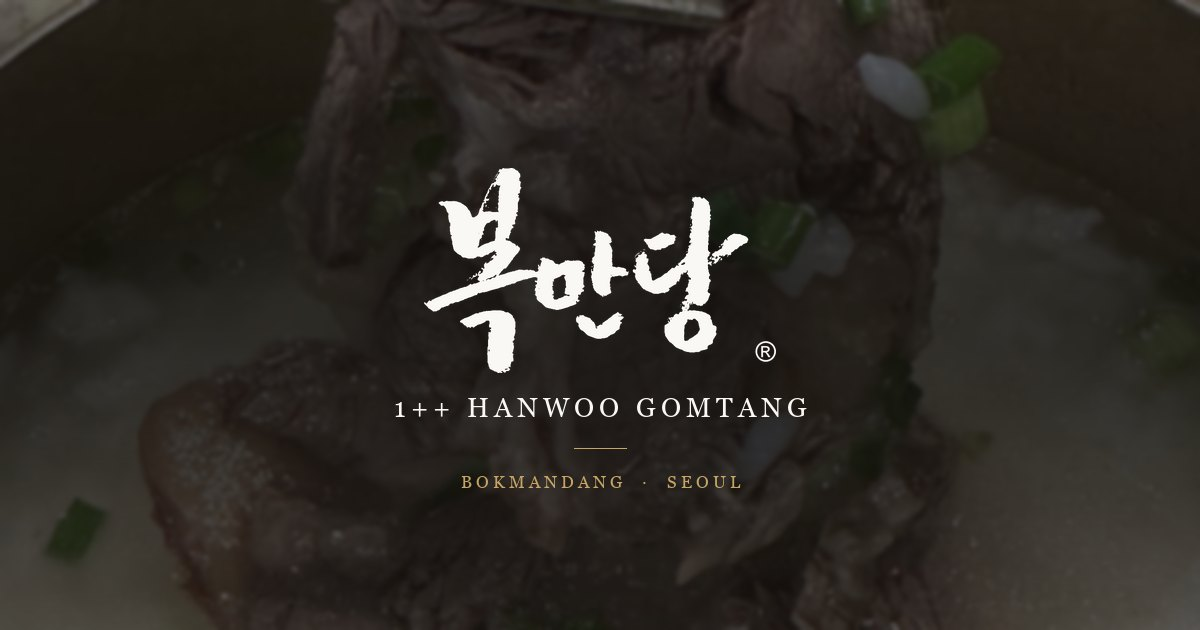
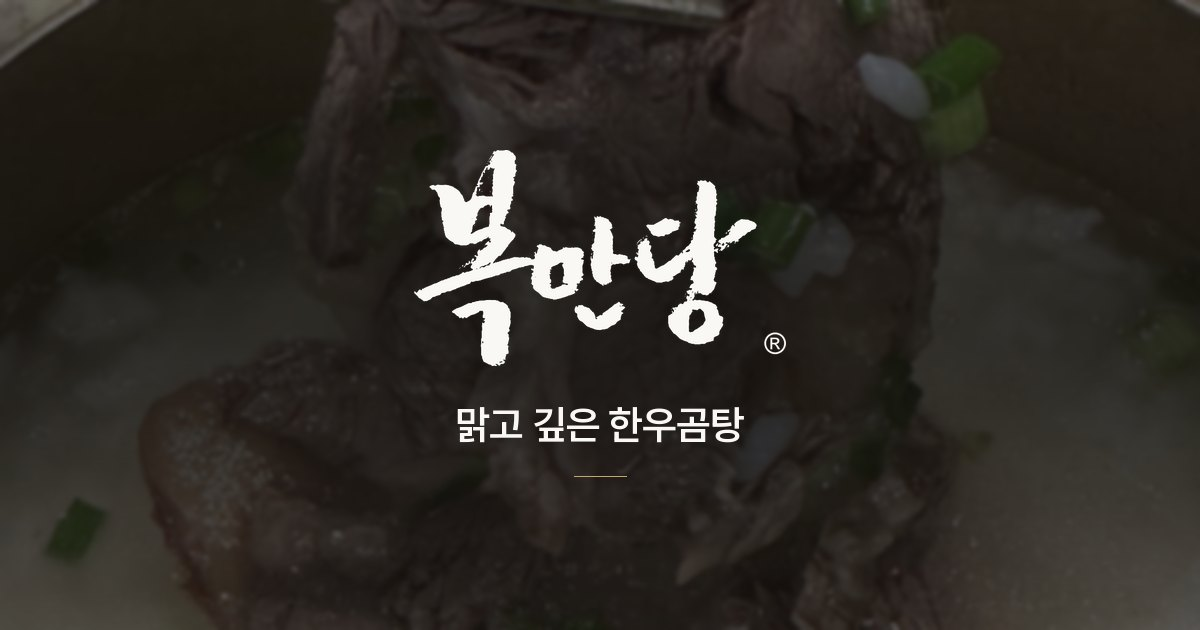
등급 표기(1++) 전면 삭제 + 오픈 전 색인 차단
■ 1++ 삭제 (발주처 확인 — 사실 아님)
축산물 등급은 「축산물 등급판정에 관한 규정」상 표시 사항이라, 근거 없이
광고 문구로 두면 표시·광고 법령 위반 소지가 있어 전 구간에서 제거했습니다.
- index.html 20곳 · privacy.html · README · CONTENT(삭제 경위 기록)
- 헤더 로고 옆 1++ 배지 제거
- 히어로 지표 타일 "1++ / 암소 한우만 사용" 제거 → 2개 (그리드 auto-fit 전환)
- OG 이미지 재생성 — 카피를 "맑고 깊은 한우곰탕"(Pretendard)으로 교체
문장 구조는 건드리지 않고 등급 토큰만 걷어냈습니다. 대체 문구를 임의로
지어내지 않았습니다.

■ 색인 차단
시안 표기와 임시값이 남은 상태로 검색에 잡히면 곤란해 noindex 적용.
- tools/set-indexing.py block|allow — robots.txt 와 meta 를 함께 토글합니다.
  둘 중 하나만 바꾸면 색인이 새므로 반드시 이 스크립트로 전환하세요.

■ 도구
- tools/make-kr-font.py — OG 이미지용 Pretendard 정적 TTF 추출
  (PIL 이 woff2 를 못 읽어 필요. 사이트 동작과는 무관)

diff --git a/index.html b/index.html
@@ -3,26 +3,27 @@
 <head>
 <meta charset="UTF-8">
 <meta name="viewport" content="width=device-width, initial-scale=1.0">
-<title>복만당 · 1++ 한우곰탕 | 브랜드 · 메뉴 · 매장 · 가맹점 모집</title>
-<meta name="description" content="1++ 암소 한우만을 약탕기에 14시간 저온으로 우려낸 맑고 깊은 곰탕. 복만당 브랜드 이야기와 메뉴, 서울·경기 매장 안내, 가맹점 창업 상담을 안내합니다.">
+<title>복만당 · 한우곰탕 | 브랜드 · 메뉴 · 매장 · 가맹점 모집</title>
+<meta name="description" content="암소 한우만을 약탕기에 14시간 저온으로 우려낸 맑고 깊은 곰탕. 복만당 브랜드 이야기와 메뉴, 서울·경기 매장 안내, 가맹점 창업 상담을 안내합니다.">
 
 <!-- ⚠ 배포 도메인 미확정 — bokmandang.example.com 은 임시 placeholder 입니다.
      도메인이 정해지면 아래 한 줄로 index.html · sitemap.xml · robots.txt 를 한꺼번에 바꾸세요.
        python tools/set-site-url.py https://실제도메인
      치환 전까지 og:image · canonical · sitemap 은 정상 동작하지 않습니다. -->
 <link rel="canonical" href="https://bokmandang.example.com/">
-<meta name="robots" content="index,follow,max-image-preview:large">
+<!-- 오픈 전 색인 차단 — tools/set-indexing.py allow 로 해제 -->
+<meta name="robots" content="noindex,nofollow">
 
 <meta property="og:type" content="website">
 <meta property="og:site_name" content="복만당">
 <meta property="og:locale" content="ko_KR">
 <meta property="og:url" content="https://bokmandang.example.com/">
-<meta property="og:title" content="복만당 · 1++ 한우곰탕">
-<meta property="og:description" content="1++ 암소 한우만을 약탕기에 14시간 저온으로 우려낸 맑고 깊은 곰탕. 브랜드 · 메뉴 · 매장 · 가맹점 모집 안내.">
+<meta property="og:title" content="복만당 · 한우곰탕">
+<meta property="og:description" content="암소 한우만을 약탕기에 14시간 저온으로 우려낸 맑고 깊은 곰탕. 브랜드 · 메뉴 · 매장 · 가맹점 모집 안내.">
 <meta property="og:image" content="https://bokmandang.example.com/assets/img/og-cover.jpg">
 <meta property="og:image:width" content="1200">
 <meta property="og:image:height" content="630">
-<meta property="og:image:alt" content="복만당 1++ 한우곰탕">
+<meta property="og:image:alt" content="복만당 한우곰탕">
 <meta name="twitter:card" content="summary_large_image">
 
 <link rel="icon" type="image/png" sizes="64x64" href="assets/img/favicon-64.png">
@@ -31,7 +32,7 @@
 <link rel="stylesheet" as="style" crossorigin href="https://cdn.jsdelivr.net/gh/orioncactus/pretendard@v1.3.9/dist/web/variable/pretendardvariable-dynamic-subset.min.css">
 <link rel="preconnect" href="https://fonts.googleapis.com"><link rel="preconnect" href="https://fonts.gstatic.com" crossorigin>
 <link href="https://fonts.googleapis.com/css2?family=Cormorant:wght@300;400;500;600&display=swap" rel="stylesheet">
-<link rel="stylesheet" href="assets/css/style.css?v=20260830c">
+<link rel="stylesheet" href="assets/css/style.css?v=20260830d">
 <!-- LCP — 히어로 사진. AVIF 미지원 브라우저는 이 preload 를 건너뜁니다. -->
 <link rel="preload" as="image" href="assets/img/hero-gomtang.avif" type="image/avif" fetchpriority="high">
 
@@ -44,7 +45,7 @@
   "@id": "https://bokmandang.example.com/#restaurant",
   "name": "복만당",
   "alternateName": "BOKMANDANG",
-  "description": "1++ 암소 한우만을 약탕기에 저온으로 우려낸 맑은 한우곰탕 전문점.",
+  "description": "암소 한우만을 약탕기에 저온으로 우려낸 맑은 한우곰탕 전문점.",
   "url": "https://bokmandang.example.com/",
   "image": "https://bokmandang.example.com/assets/img/og-cover.jpg",
   "logo": "https://bokmandang.example.com/assets/img/logo-black.png",
@@ -156,7 +157,7 @@
 
 <header id="hd">
   <div class="wrap">
-    <a href="#top" class="brand" aria-label="복만당 홈"><img src="assets/img/logo-black.png" alt="복만당"><span>1++</span></a>
+    <a href="#top" class="brand" aria-label="복만당 홈"><img src="assets/img/logo-black.png" alt="복만당"></a>
     <nav aria-label="주 메뉴"><ul>
       <li><a href="#brand">브랜드</a></li>
       <li><a href="#menu">메뉴</a></li>
@@ -182,8 +183,8 @@
     <div class="rv">
       <p class="lbl lbl-g">SINCE 2024 — 서울 · 경기 7개 매장</p>
       <h1 class="d1">맑은 국물에<br>깊은 맛을 담다</h1>
-      <p class="hero-lock"><em>복만당</em> 1++ 한우곰탕</p>
-      <p class="body">1++ 한우를 정성껏 우려, 맑고 깊은 맛을 담았습니다. 따뜻한 마음과 정성으로 완성한 곰탕에 복만당의 또 하나의 시그니처, 이북식 손만두를 곁들이면 담백하고 깊은 맛을 한층 더 풍성하게 즐기실 수 있습니다.</p>
+      <p class="hero-lock"><em>복만당</em> 한우곰탕</p>
+      <p class="body">한우를 정성껏 우려, 맑고 깊은 맛을 담았습니다. 따뜻한 마음과 정성으로 완성한 곰탕에 복만당의 또 하나의 시그니처, 이북식 손만두를 곁들이면 담백하고 깊은 맛을 한층 더 풍성하게 즐기실 수 있습니다.</p>
       <div class="hero-cta">
         <a href="#franchise" class="btn btn-dark">가맹점 창업 안내
           <svg viewBox="0 0 16 16" aria-hidden="true"><path d="M2 8h12M9 3l5 5-5 5" stroke="currentColor" stroke-width="1.3" fill="none"/></svg></a>
@@ -203,7 +204,6 @@
   </div>
   <div class="scroll-ind" aria-hidden="true" lang="en"><span class="ln"></span>SCROLL</div>
   <div class="stats"><div class="stats-in">
-    <div><b>1++</b><span>암소 한우만 사용</span></div>
     <div><b>14시간</b><span>약탕기 저온 추출</span></div>
     <div><b>100%</b><span>국내산 원재료</span></div>
   </div></div>
@@ -212,8 +212,8 @@
 
 <div class="marquee" aria-hidden="true">
   <div class="marquee-track" id="mq">
-    <span>1++ 한우<i></i>약탕기 14시간 저온 추출<i></i>이북식 손만두<i></i>국내산 100%<i></i>오픈키친 조리<i></i>맑은 곰탕<i></i></span>
-    <span>1++ 한우<i></i>약탕기 14시간 저온 추출<i></i>이북식 손만두<i></i>국내산 100%<i></i>오픈키친 조리<i></i>맑은 곰탕<i></i></span>
+    <span>한우<i></i>약탕기 14시간 저온 추출<i></i>이북식 손만두<i></i>국내산 100%<i></i>오픈키친 조리<i></i>맑은 곰탕<i></i></span>
+    <span>한우<i></i>약탕기 14시간 저온 추출<i></i>이북식 손만두<i></i>국내산 100%<i></i>오픈키친 조리<i></i>맑은 곰탕<i></i></span>
   </div>
 </div>
 
@@ -223,12 +223,12 @@
     <div>
       <div class="head rv">
         <h2 class="d2">좋은 재료로 만든<br>곰탕의 깊이는 다릅니다</h2>
-        <p class="body">1++ 한우와 엄선한 식재료로 완성한 맑고 깊은 한 그릇. 좋은 재료에서 시작해 누구나 쉽게 만들고, 효율적으로 운영할 수 있도록 설계했습니다.</p>
+        <p class="body">한우와 엄선한 식재료로 완성한 맑고 깊은 한 그릇. 좋은 재료에서 시작해 누구나 쉽게 만들고, 효율적으로 운영할 수 있도록 설계했습니다.</p>
         <p class="principle"><span class="lbl lbl-g">복만당의 3가지 원칙</span>재료는 제대로, 조리는 간편하게, 운영은 효율적으로.</p>
       </div>
       <div class="promise-grid">
         <div class="pcard rv"><span class="k">01 — 재료</span><h3>좋은 재료가 만드는<br>확실한 경쟁력</h3>
-          <p>1++ 한우를 중심으로 엄선한 식재료를 사용해 맑고 깊은 한우곰탕이라는 분명한 브랜드 경쟁력을 갖췄습니다.</p></div>
+          <p>한우를 중심으로 엄선한 식재료를 사용해 맑고 깊은 한우곰탕이라는 분명한 브랜드 경쟁력을 갖췄습니다.</p></div>
         <div class="pcard rv"><span class="k">02 — 조리</span><h3>조리 경력 없이도<br>가능한 간편한 운영</h3>
           <p>약탕기에서 저온으로 14시간, 맑고 깊게 우려낸 한우곰탕. 복잡한 불 조절이나 조리 중 지속적인 관리 부담을 줄인 시스템으로, 매일 한결같은 복만당의 맛을 구현합니다.</p></div>
         <div class="pcard rv"><span class="k">03 — 운영</span><h3>작은 매장에서도<br>가능한 효율적인 창업</h3>
@@ -251,7 +251,7 @@
   </picture>
   <div class="wrap rv">
     <div class="bar"></div>
-    <h2><q>좋은 한우, 어려운 조리는 필요 없습니다.<br>1++ 한우를 정성껏 우려낸 맑고 깊은 곰탕,<br>복만당의 맛과 깊이를 그대로 담았습니다.</q></h2>
+    <h2><q>좋은 한우, 어려운 조리는 필요 없습니다.<br>한우를 정성껏 우려낸 맑고 깊은 곰탕,<br>복만당의 맛과 깊이를 그대로 담았습니다.</q></h2>
     <p class="sig" lang="en">BOKMANDANG KITCHEN</p>
   </div>
 </section>
@@ -274,7 +274,7 @@
       <p class="swipe-hint" id="swipe" aria-hidden="true" style="display:none">옆으로 밀어 보기
         <svg viewBox="0 0 16 16"><path d="M2 8h11M9 4l4 4-4 4"/></svg></p>
       <div class="menu-grid" id="mgrid"></div>
-      <p class="origin rv"><strong>1++ 한우만 사용합니다.</strong><br>
+      <p class="origin rv"><strong>한우만 사용합니다.</strong><br>
         원산지 — 소고기(국내산), 쌀(국내산), 돼지고기(국내산), 무(국내산), 고춧가루(국내산·중국산)</p>
     </div>
   </div>
@@ -286,11 +286,11 @@
     <div class="rail rv"><span class="idx">03</span><span class="lbl" lang="en">Retail</span><span class="bar"></span></div>
     <div>
       <div class="head rv"><h2 class="d2" style="color:#FAF8F4">맑은 한우 곰탕,<br>집에서도 그대로</h2>
-        <p class="body">1++ 한우를 정성껏 우려낸 맑고 깊은 곰탕을 그 맛 그대로 정성스럽게 담았습니다. 간편하게 데우기만 하면 완성되는 복만당 한우곰탕 밀키트, 언제 어디서나 따뜻하고 든든한 한 끼를 즐겨보세요.</p></div>
+        <p class="body">한우를 정성껏 우려낸 맑고 깊은 곰탕을 그 맛 그대로 정성스럽게 담았습니다. 간편하게 데우기만 하면 완성되는 복만당 한우곰탕 밀키트, 언제 어디서나 따뜻하고 든든한 한 끼를 즐겨보세요.</p></div>
       <div class="kit-in">
         <div class="rv">
           <ul>
-            <li>1++ 한우를 약탕기에 우려낸 맑고 깊은 맛</li>
+            <li>한우를 약탕기에 우려낸 맑고 깊은 맛</li>
             <li>600g · 162kcal · 냉동 보관 (−18℃ 이하)</li>
             <li>소고기육수 88%, 소고기(국내산) 12%</li>
             <li>가맹점 부수입 · 온라인 판매 채널 동시 운영</li>
@@ -389,7 +389,7 @@
 
       <div class="support">
         <div class="scard rv"><div class="ic"><svg viewBox="0 0 24 24" aria-hidden="true"><path d="M4 9h16M6 9V6a2 2 0 0 1 2-2h8a2 2 0 0 1 2 2v3M5 9l1.2 9.2A2 2 0 0 0 8.2 20h7.6a2 2 0 0 0 2-1.8L19 9"/></svg></div>
-          <h3>약탕기 조리 시스템</h3><p>약탕기로 1++ 한우를 오래 우려내어 맑고 진한 곰탕을 조리합니다.</p></div>
+          <h3>약탕기 조리 시스템</h3><p>약탕기로 한우를 오래 우려내어 맑고 진한 곰탕을 조리합니다.</p></div>
         <div class="scard rv"><div class="ic"><svg viewBox="0 0 24 24" aria-hidden="true"><circle cx="9" cy="8" r="3"/><circle cx="17" cy="9.5" r="2.2"/><path d="M3 19c0-3.3 2.7-5 6-5s6 1.7 6 5M16.5 14.2c2.6.3 4.5 1.9 4.5 4.8"/></svg></div>
           <h3>주방 인력 최소화</h3><p>표준 레시피와 계량 도구를 제공해 2인 운영이 가능한 소형 매장 구조를 설계합니다.</p></div>
         <div class="scard rv"><div class="ic"><svg viewBox="0 0 24 24" aria-hidden="true"><path d="M3 20V9.5L12 4l9 5.5V20M3 20h18M9 20v-6h6v6"/></svg></div>
@@ -470,7 +470,7 @@
   <div class="wrap">
     <div class="top-row">
       <div><img src="assets/img/logo-white.png" alt="복만당">
-        <p>복만당 <span class="num">1++</span> 맑은 한우곰탕<br>서울시 강남구 언주로 <span class="num">563</span> 원에디션강남 <span class="num">401</span>동 <span class="num">116</span>호<br><span class="num">02-565-5288</span></p></div>
+        <p>복만당 맑은 한우곰탕<br>서울시 강남구 언주로 <span class="num">563</span> 원에디션강남 <span class="num">401</span>동 <span class="num">116</span>호<br><span class="num">02-565-5288</span></p></div>
       <div class="fnav">
         <a href="#brand">브랜드</a><a href="#menu">메뉴</a><a href="#store">매장안내</a><a href="#franchise">창업안내</a><a href="#contact">가맹문의</a>
         <a href="privacy.html" class="pp">개인정보처리방침</a>
@@ -499,8 +499,8 @@
   <svg viewBox="0 0 16 16" width="15" height="15" aria-hidden="true"><path d="M8 14V2M3 7l5-5 5 5" stroke="currentColor" stroke-width="1.3" fill="none"/></svg>
 </button>
 
-<script src="assets/js/config.js?v=20260830c"></script>
-<script src="assets/data/stores.js?v=20260830c"></script>
-<script src="assets/js/main.js?v=20260830c"></script>
+<script src="assets/js/config.js?v=20260830d"></script>
+<script src="assets/data/stores.js?v=20260830d"></script>
+<script src="assets/js/main.js?v=20260830d"></script>
 </body>
 </html>

diff --git a/privacy.html b/privacy.html
@@ -23,7 +23,8 @@
 <meta name="viewport" content="width=device-width, initial-scale=1.0">
 <title>개인정보처리방침 | 복만당</title>
 <meta name="description" content="복만당 가맹 상담 신청 시 수집하는 개인정보의 항목, 이용 목적, 보유 기간과 정보주체의 권리를 안내합니다.">
-<meta name="robots" content="index,follow">
+<!-- 오픈 전 색인 차단 — tools/set-indexing.py allow 로 해제 -->
+<meta name="robots" content="noindex,nofollow">
 <link rel="canonical" href="https://bokmandang.example.com/privacy.html">
 <link rel="icon" type="image/png" sizes="64x64" href="assets/img/favicon-64.png">
 <link rel="apple-touch-icon" sizes="180x180" href="assets/img/apple-touch-icon.png">
@@ -31,7 +32,7 @@
 <link rel="stylesheet" as="style" crossorigin href="https://cdn.jsdelivr.net/gh/orioncactus/pretendard@v1.3.9/dist/web/variable/pretendardvariable-dynamic-subset.min.css">
 <link rel="preconnect" href="https://fonts.googleapis.com"><link rel="preconnect" href="https://fonts.gstatic.com" crossorigin>
 <link href="https://fonts.googleapis.com/css2?family=Cormorant:wght@300;400;500;600&display=swap" rel="stylesheet">
-<link rel="stylesheet" href="assets/css/style.css?v=20260830c">
+<link rel="stylesheet" href="assets/css/style.css?v=20260830d">
 </head>
 <body>
 <a class="sr" href="#doc">본문 바로가기</a>
@@ -187,7 +188,7 @@
   <div class="wrap">
     <div class="top-row">
       <div><img src="assets/img/logo-white.png" alt="복만당">
-        <p>복만당 <span class="num">1++</span> 맑은 한우곰탕<br>서울시 강남구 언주로 <span class="num">563</span> 원에디션강남 <span class="num">401</span>동 <span class="num">116</span>호<br><span class="num">02-565-5288</span></p></div>
+        <p>복만당 맑은 한우곰탕<br>서울시 강남구 언주로 <span class="num">563</span> 원에디션강남 <span class="num">401</span>동 <span class="num">116</span>호<br><span class="num">02-565-5288</span></p></div>
       <div class="fnav">
         <a href="index.html#brand">브랜드</a><a href="index.html#menu">메뉴</a><a href="index.html#store">매장안내</a><a href="index.html#franchise">창업안내</a><a href="index.html#contact">가맹문의</a>
       </div>

diff --git a/assets/css/style.css b/assets/css/style.css
@@ -136,7 +136,7 @@ body.nav-open .drawer{opacity:1;visibility:visible}
 .price-card i{font-style:normal;font-size:13px;color:var(--mute)}
 .price-card i .num{font-size:15px}
 .stats{border-top:1px solid var(--line);margin-top:clamp(56px,7vw,96px)}
-.stats-in{display:grid;grid-template-columns:repeat(3,1fr);max-width:var(--maxw);margin:0 auto;padding:0 var(--pad)}
+.stats-in{display:grid;grid-template-columns:repeat(auto-fit,minmax(200px,1fr));max-width:var(--maxw);margin:0 auto;padding:0 var(--pad)}
 .stats div{padding:clamp(26px,3vw,42px) 0;border-right:1px solid var(--line)}
 .stats div:last-child{border-right:0}
 .stats div:not(:first-child){padding-left:clamp(20px,3vw,44px)}

diff --git a/tools/set-indexing.py b/tools/set-indexing.py
@@ -1,0 +1,50 @@
+#!/usr/bin/env python3
+"""복만당 — 검색엔진 색인 차단 / 허용 토글
+
+  python tools/set-indexing.py block   # 차단 (오픈 전 기본값)
+  python tools/set-indexing.py allow   # 허용 (정식 오픈 시)
+
+robots.txt 와 각 HTML 의 <meta name="robots"> 를 함께 바꿉니다.
+둘 중 하나만 바꾸면 색인이 새어 나가므로 반드시 이 스크립트로 토글하세요.
+"""
+import sys, io, os, re
+try: sys.stdout.reconfigure(encoding='utf-8')
+except Exception: pass
+
+ROOT  = os.path.join(os.path.dirname(__file__), '..')
+PAGES = {'index.html': 'index,follow,max-image-preview:large',
+         'privacy.html': 'index,follow'}
+BLOCK = 'noindex,nofollow'
+MARK  = '<!-- 오픈 전 색인 차단 — tools/set-indexing.py allow 로 해제 -->'
+
+mode = (sys.argv[1] if len(sys.argv) > 1 else '').lower()
+if mode not in ('block', 'allow'):
+    print(__doc__); sys.exit(1)
+
+for page, live in PAGES.items():
+    p = os.path.join(ROOT, page)
+    s = io.open(p, encoding='utf-8').read()
+    want = BLOCK if mode == 'block' else live
+    new, n = re.subn(r'<meta name="robots" content="[^"]*">',
+                     f'<meta name="robots" content="{want}">', s)
+    assert n == 1, f'{page}: <meta name="robots"> 를 찾지 못했습니다'
+    new = new.replace(MARK + '\n', '')
+    if mode == 'block':
+        new = new.replace(f'<meta name="robots" content="{want}">',
+                          MARK + f'\n<meta name="robots" content="{want}">', 1)
+    io.open(p, 'w', encoding='utf-8').write(new)
+    print(f'  {page:14} robots meta → {want}')
+
+p = os.path.join(ROOT, 'robots.txt')
+s = io.open(p, encoding='utf-8').read()
+s = re.sub(r'(?m)^(Allow|Disallow): /$',
+           'Disallow: /' if mode == 'block' else 'Allow: /', s)
+head = ('# ⚠ 오픈 전 색인 차단 상태입니다. 정식 오픈 시:\n'
+        '#    python tools/set-indexing.py allow\n'
+        if mode == 'block' else '')
+s = re.sub(r'(?s)^#.*?\n\n', '', s, count=1)   # 기존 안내 주석 제거
+s = ('# 복만당 — robots.txt\n' + head +
+     '# Sitemap 주소는 배포 도메인 확정 후: python tools/set-site-url.py https://도메인\n\n' + s)
+io.open(p, 'w', encoding='utf-8').write(s)
+print(f'  robots.txt     → {"Disallow" if mode=="block" else "Allow"}: /')
+print(f'\n색인 {"차단" if mode=="block" else "허용"} 적용 완료. 배포해야 반영됩니다.')

diff --git a/tools/make-og-image.py b/tools/make-og-image.py
@@ -35,16 +35,19 @@ for y in range(H):
 bg = Image.composite(Image.new('RGB', (W, H), (16, 15, 12)), bg,
                      grad.resize((W, H)))
 
-# 워드마크
-# 정식 로고(® 포함)를 씁니다 — tools/make-logo-r.py 로 생성
+# 워드마크 — 정식 로고(® 포함). tools/make-logo-r.py 로 생성
 logo = Image.open(os.path.join(IMG, 'logo-white-r.png')).convert('RGBA')
-lw = 352
+lw = 372
 logo = logo.resize((lw, round(logo.height * lw / logo.width)), Image.LANCZOS)
-bg.paste(logo, ((W - lw) // 2, 168), logo)
+bg.paste(logo, ((W - lw) // 2, 150), logo)
 
 d = ImageDraw.Draw(bg)
-serif  = ImageFont.truetype('C:/Windows/Fonts/georgia.ttf', 27)
-serif_s= ImageFont.truetype('C:/Windows/Fonts/georgia.ttf', 17)
+# 카피는 사이트와 같은 Pretendard 를 씁니다.
+# 없으면 tools/README 참고 — 가변 폰트를 정적 TTF 로 뽑아 두어야 합니다.
+KR = os.path.join(os.path.dirname(__file__), '..', 'build', 'Pretendard-600.ttf')
+if not os.path.exists(KR):
+    raise SystemExit(HELP)
+kr = ImageFont.truetype(KR, 40)
 
 def center(text, y, font, fill, track=0):
     w = sum(d.textlength(c, font=font) + track for c in text) - track
@@ -53,9 +56,9 @@ def center(text, y, font, fill, track=0):
         d.text((x, y), c, font=font, fill=fill)
         x += d.textlength(c, font=font) + track
 
-center('1++ HANWOO GOMTANG', 392, serif, (250, 248, 244), track=5)
-d.line([(W / 2 - 26, 448), (W / 2 + 26, 448)], fill=GOLD, width=1)
-center('BOKMANDANG  ·  SEOUL', 472, serif_s, GOLD, track=4)
+# 한글은 자간을 살짝 조입니다 (DESIGN.md 타이포 규칙)
+center('맑고 깊은 한우곰탕', 400, kr, (250, 248, 244), track=-1.2)
+d.line([(W / 2 - 26, 476), (W / 2 + 26, 476)], fill=GOLD, width=1)
 
 out = os.path.join(IMG, 'og-cover.jpg')
 bg.save(out, 'JPEG', quality=86, optimize=True, progressive=True)

diff --git a/tools/make-kr-font.py b/tools/make-kr-font.py
@@ -1,0 +1,23 @@
+#!/usr/bin/env python3
+"""Pretendard 가변 woff2 → OG 이미지용 정적 TTF (weight 600)
+
+PIL 은 woff2 를 못 읽어서, 이미지에 한글 카피를 얹으려면 이 변환이 필요합니다.
+사이트 자체와는 무관합니다 — 이미지 생성 도구일 뿐입니다.
+
+  curl -s -o build/PretendardVariable.woff2 https://cdn.jsdelivr.net/gh/orioncactus/pretendard@v1.3.9/packages/pretendard/dist/web/variable/woff2/PretendardVariable.woff2
+  python tools/make-kr-font.py
+"""
+import sys, os
+try: sys.stdout.reconfigure(encoding='utf-8')
+except Exception: pass
+from fontTools.ttLib import TTFont
+from fontTools.varLib import instancer
+
+ROOT = os.path.join(os.path.dirname(__file__), '..')
+SRC  = os.path.join(ROOT, 'build', 'PretendardVariable.woff2')
+DST  = os.path.join(ROOT, 'build', 'Pretendard-600.ttf')
+if not os.path.exists(SRC):
+    raise SystemExit(f'{SRC} 가 없습니다. 위 curl 명령을 먼저 실행하세요.')
+f = TTFont(SRC); f.flavor = None
+instancer.instantiateVariableFont(f, {'wght': 600}).save(DST)
+print(f'{DST}  {os.path.getsize(DST)//1024}KB')

diff --git a/CONTENT.md b/CONTENT.md
@@ -17,7 +17,13 @@
 > 같은 건물 내 다른 호실로 보이나 발주처 확인 권장. 법정 표시(푸터·처리방침)는 124호를 씁니다.
 
 ### 브랜드
-✅ 브랜드명 **복만당 (BOKMANDANG)** · 업종 1++ 한우곰탕 프랜차이즈
+✅ 브랜드명 **복만당 (BOKMANDANG)** · 업종 한우곰탕 프랜차이즈
+
+> 🚫 **등급 표기(`1++`)는 사이트 전체에서 삭제했습니다 — 2026-08-30, 발주처 확인.**
+> 초기 자료(본점 메뉴판)에 해당 표기가 있었으나 사실이 아님이 확인되었습니다.
+> 축산물 등급은 「축산물 등급판정에 관한 규정」에 따른 표시 사항이라,
+> 근거 없이 광고 문구로 쓰면 표시·광고 관련 법령 위반 소지가 있습니다.
+> **다시 넣으려면 등급판정확인서 등 근거를 확보한 뒤에만 넣으세요.**
 ✅ 로고 — 붓글씨 워드마크. 원본 `.ai` 파일이 발주처 `로고` 폴더에 있음. 웹에는 PNG(투명)로 사용 중.
 
 ### 본점
@@ -32,7 +38,7 @@
 
 ### 메뉴 (본점 메뉴판 기준)
 ✅ 곰탕 11,000 / 특곰탕 13,000 / 우설곰탕 16,000 / 수육곰탕 19,000 / 한우수육(250g) 35,000 / 이북식 손만두(1알) 2,000 / 공깃밥 1,000 / 곰탕 밀키트 9,000
-✅ "1++ 한우만 사용합니다"
+✅ "한우만 사용합니다" — ⚠ 메뉴판 원문에는 등급 표기가 붙어 있었으나 삭제함
 ✅ 원산지 — 소고기(국내산), 쌀(국내산), 돼지고기(국내산), 무(국내산), 고춧가루(국내산·중국산)
 
 ### 밀키트 (제품 라벨 기준)
@@ -65,20 +71,20 @@
 ```
 SINCE 2024 — 서울 · 경기 7개 매장
 맑은 국물에 / 깊은 맛을 담다
-복만당 1++ 한우곰탕
+복만당 한우곰탕
 
-1++ 한우를 정성껏 우려, 맑고 깊은 맛을 담았습니다. 따뜻한 마음과 정성으로
+한우를 정성껏 우려, 맑고 깊은 맛을 담았습니다. 따뜻한 마음과 정성으로
 완성한 곰탕에 복만당의 또 하나의 시그니처, 이북식 손만두를 곁들이면
 담백하고 깊은 맛을 한층 더 풍성하게 즐기실 수 있습니다.
 
-지표 — 1++ 암소 한우만 사용 / 14시간 약탕기 저온 추출 / 100% 국내산 원재료
+지표 — 14시간 약탕기 저온 추출 / 100% 국내산 원재료  ⚠ 등급 타일 삭제로 3개 → 2개
 ```
 
 ### 01 브랜드 — OUR PROMISE
 ```
 좋은 재료로 만든 / 곰탕의 깊이는 다릅니다
 
-1++ 한우와 엄선한 식재료로 완성한 맑고 깊은 한 그릇.
+한우와 엄선한 식재료로 완성한 맑고 깊은 한 그릇.
 좋은 재료에서 시작해 누구나 쉽게 만들고, 효율적으로 운영할 수 있도록 설계했습니다.
 
 복만당의 3가지 원칙
@@ -92,7 +98,7 @@ SINCE 2024 — 서울 · 경기 7개 매장
 ### 인용 배너
 ```
 "좋은 한우, 어려운 조리는 필요 없습니다.
- 1++ 한우를 정성껏 우려낸 맑고 깊은 곰탕,
+ 한우를 정성껏 우려낸 맑고 깊은 곰탕,
  복만당의 맛과 깊이를 그대로 담았습니다."
 ```
 
@@ -100,7 +106,7 @@ SINCE 2024 — 서울 · 경기 7개 매장
 ```
 맑은 한우 곰탕, / 집에서도 그대로
 
-1++ 한우를 정성껏 우려낸 맑고 깊은 곰탕을 그 맛 그대로 정성스럽게 담았습니다.
+한우를 정성껏 우려낸 맑고 깊은 곰탕을 그 맛 그대로 정성스럽게 담았습니다.
 간편하게 데우기만 하면 완성되는 복만당 한우곰탕 밀키트,
 언제 어디서나 따뜻하고 든든한 한 끼를 즐겨보세요.
 ```

diff --git a/README.md b/README.md
@@ -1,6 +1,6 @@
 # 복만당 웹사이트
 
-1++ 한우곰탕 프랜차이즈 **복만당(BOKMANDANG)** 공식 웹사이트.
+한우곰탕 프랜차이즈 **복만당(BOKMANDANG)** 공식 웹사이트.
 빌드 도구 없이 동작하는 정적 사이트입니다. (HTML + CSS + 바닐라 JS)
 
 ## 실행
